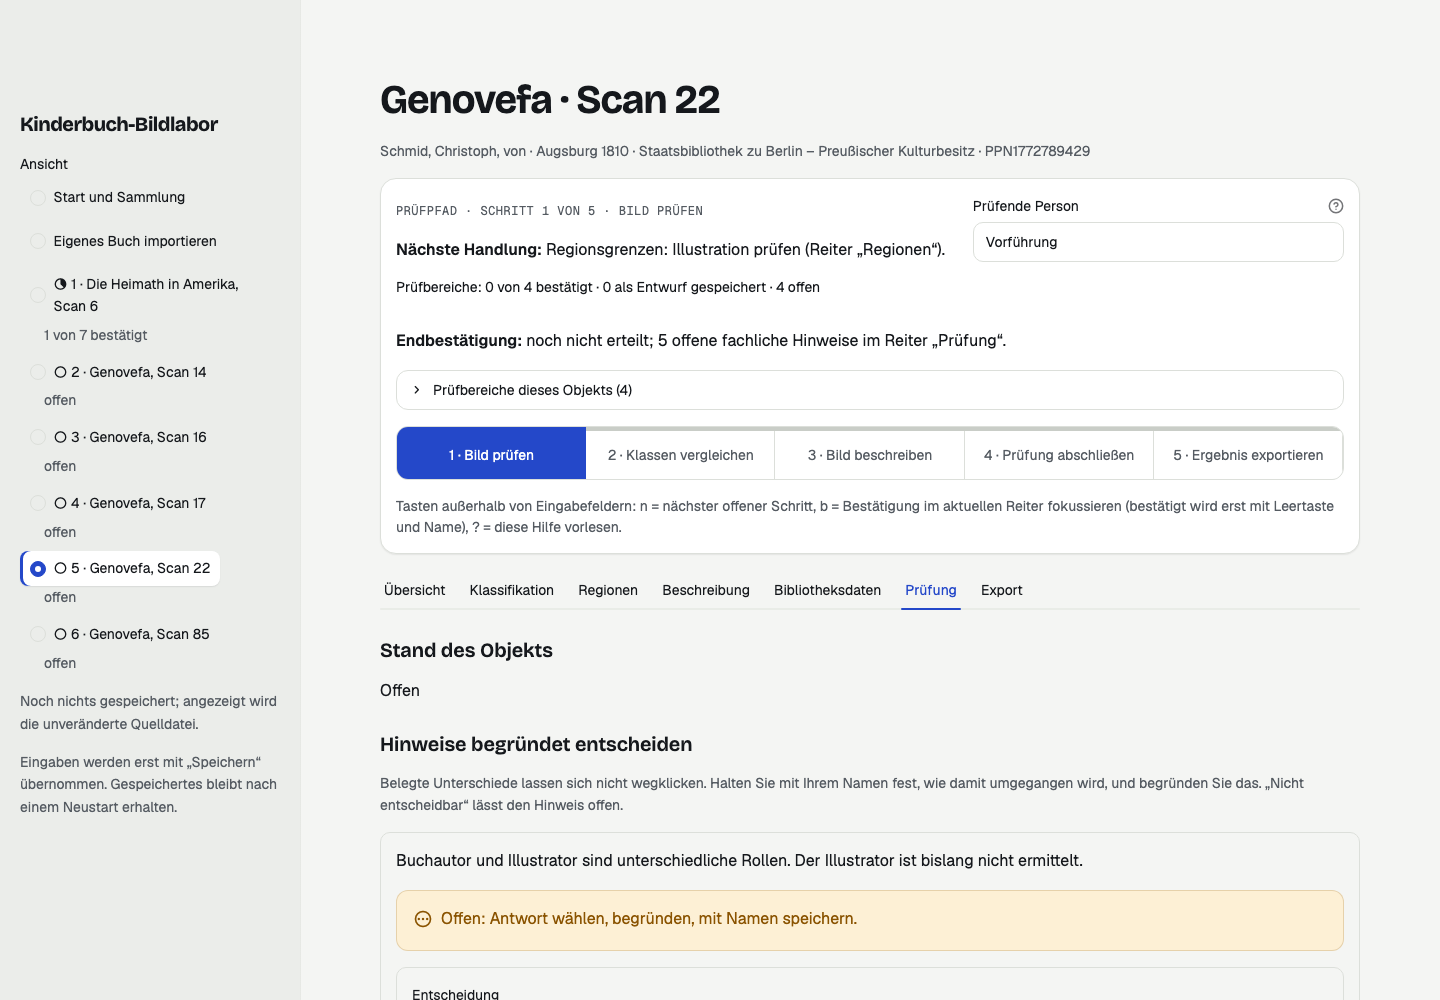
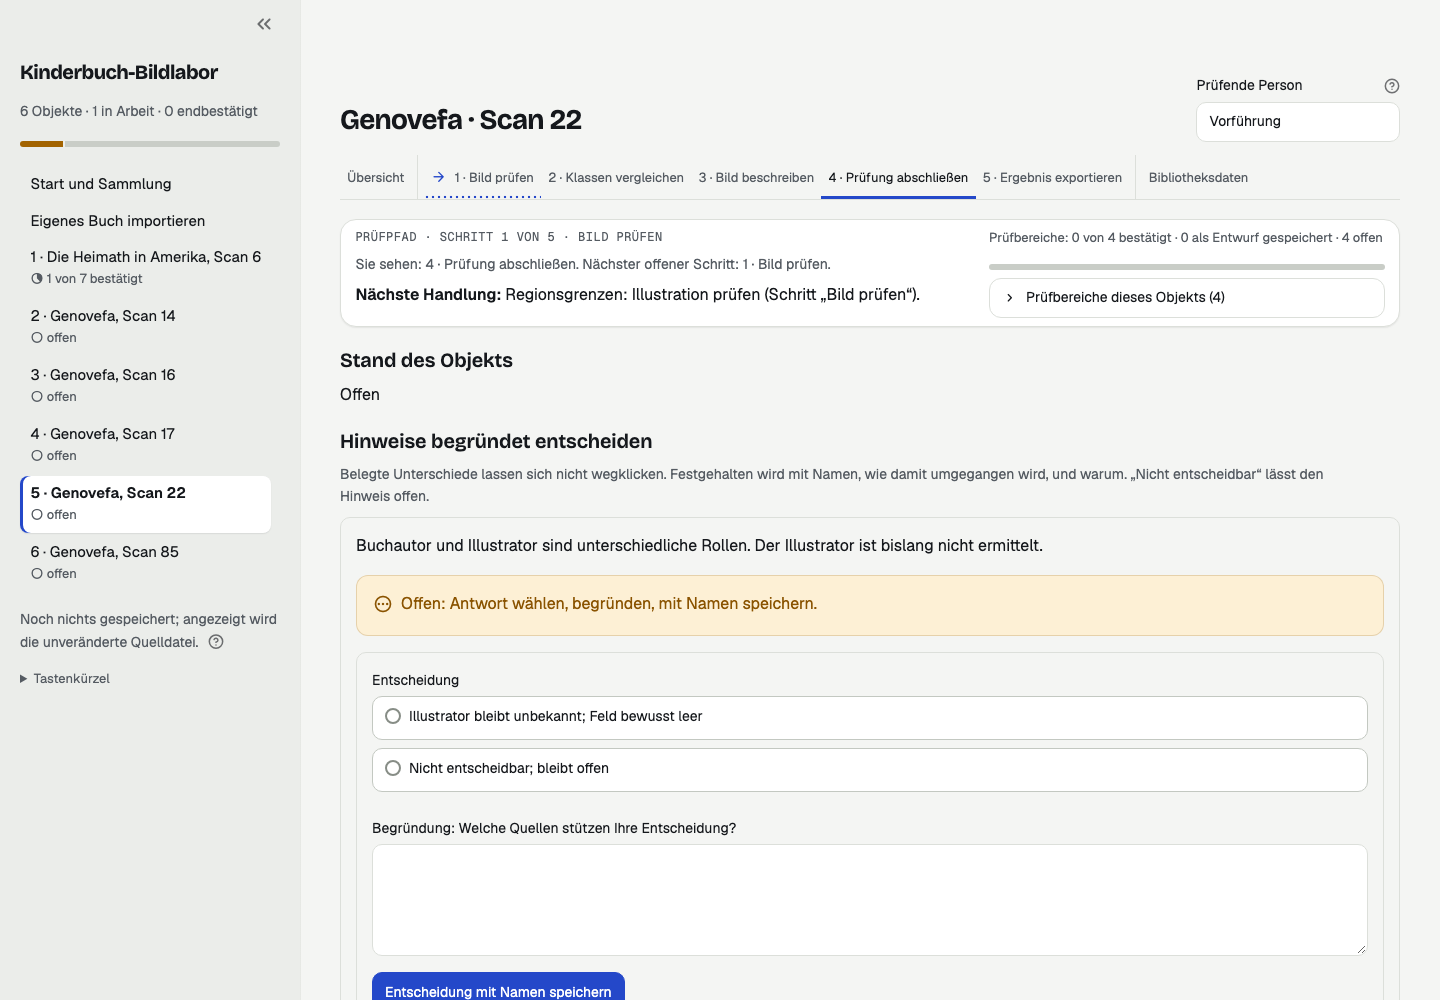
Dokumentation: neue Bildschirmfotos und Gestaltungsleitfaden
Sieben Bildschirmfotos neu erzeugt (neutraler Prüfername „Vorführung“); DESIGN_SYSTEM.md um den Stand der Bedienführung ergänzt.

diff --git a/docs/design/DESIGN_SYSTEM.md b/docs/design/DESIGN_SYSTEM.md
@@ -3,8 +3,8 @@
 Design specification for the Kinderbuch-Bildlabor user interface. The concept is the
 **digitization studio** where these scans are made: neutral studio gray (the standard surround for
 judging color), crisp contemporary type, a vivid cobalt version of *Berliner Blau* reserved for the
-next action, and one signature element: the review path drawn as a **calibration strip**, like the
-color target photographed next to every library scan. The UI language stays German; this document
+next action, and one signature element: the review path as **one numbered workflow bar**, the
+only navigation of an object, with each step's state shown as icon, word and color. The UI language stays German; this document
 is written in English for the implementing agent.
 
 - **Implementation prompts:** [GG_CODER_PROMPTS.md](GG_CODER_PROMPTS.md)
@@ -46,7 +46,7 @@ precise look that is specific to this subject, and it helps the scans look right
 | Display type | Bricolage Grotesque | Contemporary grotesque with ink traps and a hint of print warmth that suits children's books, used only for headings and large values |
 | Text type | Geist | Crisp, neutral, highly legible UI face |
 | Utility type | Geist Mono | Labels and identifiers, like the slip that travels with a scan |
-| Signature | Prüfpfad as calibration strip | The steps really are a sequence; the strip shows each step's state as a patch |
+| Signature | Prüfpfad as the single workflow bar | The steps really are a sequence; one bar shows order, state and where you are |
 
 ## 3. Design principles
 
@@ -73,7 +73,7 @@ precise look that is specific to this subject, and it helps the scans look right
 | Inputs | Beige fields on beige page read as disabled; border contrast about 1.3:1 | White fields with a 3:1+ border (WCAG 1.4.11) |
 | Captions | Muted with `opacity: 0.7` (also fades icons and links) | Fixed muted ink color, 5.8:1 or better |
 | Status colors | Streamlit default yellow/blue/orange; "Offen" in orange, so a fresh object looks alarming | Harmonized semantic palette; untouched = neutral gray, amber only for saved-but-unconfirmed |
-| Prüfpfad steps | Row of round pills, hard to tell done from upcoming | Calibration strip: equal segments, gray/green/cobalt state edge, check icon |
+| Prüfpfad steps | Step buttons plus a separate tab bar with different names and order | One workflow bar: Übersicht, numbered steps, Bibliotheksdaten; the tab bar is hidden |
 | Scan display | Warm paper surround | Neutral gray mat ("Passepartout") behind every scan |
 | Region overlays | Same region is red on overview tabs (colored by number) and blue in the editor (colored by type) | One color per region type everywhere, color-blind-safe (Okabe-Ito) |
 | Object page | Header, Prüfpfad card, two captions and the keyboard hint push the scan below the fold at 1440×900 | Compact Prüfpfad; explanations folded in; work area starts higher |
@@ -101,7 +101,7 @@ All text/background pairs were checked against WCAG 2.2 (ratios in brackets).
 | `on-primary` | Label on primary buttons | `#FFFFFF` (7.4:1) | `#0B1640` (7.9:1) |
 | `primary-tint` | Hover/selected background | `#E9EDFB` | `#1D2547` |
 | `ok` | Done edge and icon | `#146C3A` | `#86D6A2` |
-| `open` | Upcoming edge in the strip | `#C9CDC7` | `#3A4047` |
+| `open` | Open part of progress bars | `#C9CDC7` | `#3A4047` |
 | `mat` | Neutral surround behind scans | `#E2E3E1` | `#0B0C0D` |
 
 Streamlit derives the label color of primary buttons itself and puts white on the light dark-mode
@@ -191,11 +191,11 @@ italic; do not use italics for emphasis (use weight 500–600).
 
 - **Spacing scale (rem):** 0.25 · 0.5 · 0.75 · 1 · 1.5 · 2 · 3 · 4. Use 1.5rem between related
   blocks, 3rem between page sections.
-- **Radius:** inputs and buttons 0.625rem; strip and expanders 0.75rem; scan mat 0.875rem; cards
+- **Radius:** inputs and buttons 0.625rem; expanders 0.75rem; scan mat 0.875rem; cards
   1rem; scan images 0.25rem (paper has nearly square corners).
 - **Elevation:** `shadow-1` (a 1–2px soft shadow) for cards; scans use `shadow-scan`. No other
   shadows. Prefer borders over shadows.
-- **Touch targets:** at least 40px high on desktop, 44px on phones (strip segments are 52px).
+- **Touch targets:** at least 40px high on desktop, 44px on phones (workflow bar items are 44px).
 
 ## 8. Layout and information architecture
 
@@ -203,32 +203,39 @@ italic; do not use italics for emphasis (use weight 500–600).
 
 ```
 ┌ Sidebar (sunken) ─────────┐ ┌ Main (canvas) ─────────────────────────────────────────────┐
-│ Kinderbuch-Bildlabor       │ │ Genovefa · Scan 22                                          │
-│                            │ │ Schmid, Christoph, von · Augsburg 1810 · … · PPN1772789429  │
-│ Start und Sammlung         │ │ ┌ Prüfpfad (white card) ────────────────────────────────────┐ │
-│ Eigenes Buch importieren   │ │ │ PRÜFPFAD · SCHRITT 2 VON 5 · …     Prüfende Person [____]  │ │
-│ 1 · Heimath, Scan 6        │ │ │ Nächste Handlung: …                                        │ │
-│   offen                    │ │ │ ▬▬▬▬▬▬░░░░░░░░ 1 von 4 bestätigt · 0 Entwurf · 3 offen    │ │
-│ 2 · Genovefa, Scan 14      │ │ │ ┌──────────┬──────────┬──────────┬──────────┬──────────┐  │ │
-│   1 von 4 bestätigt        │ │ │ │▀▀green▀▀▀│██cobalt██│▀▀gray▀▀▀▀│▀▀gray▀▀▀▀│▀▀gray▀▀▀▀│  │ │
-│▌5 · Genovefa, Scan 22      │ │ │ │✓ 1 Bild  │2 Klassen │3 Beschr. │4 Abschl. │5 Export  │  │ │
-│   1 von 4 bestätigt        │ │ │ └──────────┴──────────┴──────────┴──────────┴──────────┘  │ │
-│                            │ │ └────────────────────────────────────────────────────────────┘ │
-│ Eingaben werden erst mit … │ │ Übersicht | Klassifikation | Regionen | … | Prüfung | Export │
+│ Kinderbuch-Bildlabor       │ │ SAMMLUNG · GENOVEFA · AUGSBURG 1810                         │
+│ 6 Objekte · 1 in Arbeit ·… │ │ Genovefa · Scan 22                    Prüfende Person [____] │
+│ ▬▬░░░░░░░░░░░░░░░░░░░░░░  │ │ Schmid, Christoph, von · Augsburg 1810 · … · PPN1772789429  │
+│ Start und Sammlung         │ │ Übersicht │ → 1 · Bild prüfen  2 · Klassen …  5 · Export │ Bibl.│ (sticky)
+│ Eigenes Buch importieren   │ │ ────────── ═══════════ (underline = shown view) ──────────── │
+│ ◔ 1 · Heimath, Scan 6      │ │ ┌ Status card ──────────────────────────────────────────────┐ │
+│     1 von 7 bestätigt      │ │ │ PRÜFPFAD · SCHRITT 1 VON 5 …   Prüfbereiche: 0 von 4 …   │ │
+│▌○ 5 · Genovefa, Scan 22    │ │ │ Nächste Handlung: …            ▬▬▬▬▬▬▬▬▬▬▬▬▬▬▬▬▬▬▬▬▬       │ │
+│     offen                  │ │ │ Endbestätigung: …              ▸ Prüfbereiche (4)         │ │
+│ … keyboard help (objects)  │ │ └────────────────────────────────────────────────────────────┘ │
 └────────────────────────────┘ │ ┌ Scan on gray mat (sticky) ┐ ┌ Work panel ───────────────┐  │
                                │ │        [ scan ]            │ │ question · form · sign-off│  │
                                │ └────────────────────────────┘ └───────────────────────────┘  │
                                └─────────────────────────────────────────────────────────────┘
 ```
 
-- **Sidebar:** wordmark in Bricolage; navigation as list rows; the active row sits on `surface`
-  with a 3px inset cobalt edge; under each object a short state line (Phase 2).
-- **Object header:** H1 "Genovefa · Scan 22" in Bricolage, metadata line in `ink-muted`.
-- **Prüfpfad:** one white card. The two captions that currently sit below it (step explanation
-  and keyboard hint) move inside the card, into its footer or the "Prüfbereiche dieses Objekts"
-  expander. Goal at 1440×900: the tab bar and the top of the scan are visible without scrolling.
-- **Work area:** two columns, scan left (2) and controls right (3), as today (`ui.SPLIT`). The scan
-  column stays sticky on wide screens.
+- **Sidebar:** wordmark in Bricolage; collection progress line with a segmented bar; navigation as
+  full-width list rows (visual radio circle hidden, input kept for keyboard and screen readers);
+  the active row sits on `surface` with a 3px inset cobalt edge; under each object a state line.
+  Focus ring is drawn inside the row so the sidebar edge never clips it. On object pages the
+  keyboard help sits at the bottom of the sidebar.
+- **Object header** (`object-head`): eyebrow, H1 "Genovefa · Scan 22" (no break inside
+  "Scan 22") and metadata line on the left, "Prüfende Person" on the right. Below 1100px the
+  name field moves under the title.
+- **Workflow bar** (`guide-steps`): the only navigation of an object, sticky under the Streamlit
+  header. See §9. `st.tabs` still decides which view renders (keys, labels and session values are
+  unchanged), but its tab bar is hidden.
+- **Status card** (`review-guide`): eyebrow, next action and final-approval line on the left,
+  progress and the "Prüfbereiche dieses Objekts" expander on the right; stacks below 1100px.
+  Result at 1440×900: the illustration starts at about 420px instead of about 690px.
+- **Work area:** two equal columns, scan left and controls right (`ui.SPLIT = [1, 1]`). Scans are
+  capped to the window height so a whole page stays visible. The scan column stays sticky above
+  1100px; below that, scan and controls stack.
 
 ### 8.2 Start page order
 
@@ -249,7 +256,7 @@ Keep the demo narrative but bring the collection closer to the top:
 
 | Component | Spec |
 |---|---|
-| **Calibration strip** (signature; Prüfpfad step buttons in `st.container(key="guide-steps")`) | One continuous strip, 1px `border`, radius 0.75rem, segments of equal width (min 8.5rem, wraps on phones), 52px high, no gaps. Each segment has a 4px top edge: `open` gray for upcoming, `ok` green plus check icon for done, and the current step is a solid cobalt segment with `on-primary` label. Hover on other segments: `primary-tint`. No bounce animation inside the strip. Keep keys and `help=` texts. |
+| **Workflow bar** (signature; `workflow.navigation`, `st.container(key="guide-steps")`) | One row: Übersicht, the numbered steps in review order, then reference views (Bibliotheksdaten), separated by 1px dividers. Text buttons 44px high, `ink-muted` label. Shown view: `ink` label and a 3px cobalt underline (`workflow.viewed_marker`, also sets `aria-current="page"`). Next open step: cobalt label with arrow icon (`type="primary"`); done: green check icon. Scrolls horizontally on narrow screens; sticky at the top. Keys `guide-<tab>` and `help=` texts unchanged. |
 | **Primary button** | Cobalt fill, `on-primary` label, radius 0.625rem, optional leading arrow icon. One per area. The two-bounce "next step" nudge stays on "Leitbeispiel öffnen" and "Weiter"; off under reduced motion. |
 | **Secondary button** | White, 1px `border-strong`, ink label. |
 | **Tertiary / link** | "Scan in der Originalansicht öffnen": link style with external-link icon. |
@@ -258,12 +265,13 @@ Keep the demo narrative but bring the collection closer to the top:
 | **Sign-off panel** (`ui.confirm_controls`, key `…-review-box`) | Reads as a signature block: `surface`, 1px `border-strong`, radius 0.75rem; statement checkbox; primary confirm button; lock icon + reason in `ink-muted` when disabled. |
 | **Decision options** (radios with keys ending `-outcome`) | Each option a full-width row: 44px min height, 1px border, radius 0.625rem; hover border `primary`; selected = `primary` border + `primary-tint`. The sidebar radio is not affected. |
 | **Comparison cards** ("Colibri manuell" vs "Colibri automatisch") | Two equal `st.metric` cards; value in Bricolage; the automatic card gets a violet "maschinell" badge. |
-| **Scan stage** | `mat` background, 0.875rem padding and radius; image radius 0.25rem with `shadow-scan`; caption below in `ink-muted`. |
+| **Scan stage** | `mat` background, 0.875rem padding and radius; image radius 0.25rem with `shadow-scan`; caption below in `ink-muted`; height capped to the window; fullscreen button always visible. |
+| **Region editor** (`region_canvas.js`, shadow DOM, styled by its own `STYLE` from `--bl-*` tokens) | Segmented mode switch (`aria-pressed`), zoom group (−, +, Gesamtansicht), collapsible "Bildanpassung" and "Bedienung". Frames: white halo, type color, label tag 12 screen px above the frame with white or near-black text (whichever reaches 4.5:1). Unsaved frames dashed and tagged "geändert"/"neu". Live status line (`aria-live`) with selection coordinates and unsaved count. |
 | **Alerts** | Theme colors from 5.2 plus a 1px border at 20% of the text color, radius 0.75rem. Avoid stacking more than one alert per area. |
-| **Tabs** | Weight 500, active 600 with cobalt underline. Optional: sticky tab bar (adjust the sticky scan offset). |
+| **Tabs** | The object tab bar is hidden; the workflow bar replaces it. |
 | **Tables** | Header on `sunken`, tabular numbers, 1px `border`. |
 | **Keyboard hint** (`review_keys.py`) | Inherit the theme font; 0.875rem; color `var(--bl-ink-muted)`. |
-| **Focus** | 3px `primary` outline, 2px offset (inside the strip: −3px), on every interactive element. |
+| **Focus** | 3px `primary` outline, 2px offset (inside the workflow bar and sidebar rows: −3px), on every interactive element. |
 
 ## 10. Motion
 
@@ -275,8 +283,8 @@ hover color changes. Everything is disabled under `prefers-reduced-motion: reduc
 - [ ] Text contrast ≥ 4.5:1, large text ≥ 3:1, input borders and focus ring ≥ 3:1 (values in §5
   already pass in both modes).
 - [ ] Primary button labels use `on-primary` in both modes.
-- [ ] No state conveyed by color alone (icon + word always present; the strip's done segments carry
-  a check icon).
+- [ ] No state conveyed by color alone (icon + word always present; done steps carry a check icon,
+  the next step an arrow).
 - [ ] `lang="de"` set on the document.
 - [ ] All actions reachable by keyboard; visible focus ring everywhere; keyboard hint readable.
 - [ ] Usable at 200% browser zoom and at 390px width without horizontal scrolling.
@@ -290,10 +298,15 @@ hover color changes. Everything is disabled under `prefers-reduced-motion: reduc
   `headingFontSizes`, `greenBackgroundColor`, …). The implementation is
   [`.streamlit/config.toml`](../../.streamlit/config.toml).
 - **Tokens for custom CSS** come from `theme.inject()` ([`theme.py`](../../src/kinderbuch_bildlabor/theme.py)),
-  which writes `--bl-*` CSS variables for the active mode using `st.context.theme.type` and sets
-  `lang="de"`. `workflow.css` uses only these variables, never raw hex values.
+  which writes the light `--bl-*` variables on `:root` and the dark ones under
+  `:root[data-bl-theme="dark"]`, and sets `lang="de"`. `THEME_SCRIPT` sets `data-bl-theme` in the
+  browser from the background Streamlit actually renders and updates it on every theme change.
+  A server-side choice (`st.context.theme.type`) lagged behind live theme switches until the next
+  run and produced 2.2–2.4:1 primary button labels. `workflow.css` uses only these variables, never raw hex values.
 - **Selectors:** prefer the `.st-key-<key>` classes Streamlit adds to keyed containers. The design
-  needs three new hooks: `guide-steps` (strip), `guide-eyebrow`, `hero-eyebrow`. Use `data-testid`
+  hooks: `guide-steps` (workflow bar), `guide-eyebrow`, `guide-final`, `guide-keys`, `object-head`,
+  `review-guide`, `collection-progress`, `hero-eyebrow`. Streamlit replaces every character outside
+  `[A-Za-z0-9_-]` in key classes with `-` (`guide-übersicht` becomes `st-key-guide--bersicht`). Use `data-testid`
   selectors sparingly, never `:nth-child`, and never `:first-child` on generic elements (in the
   prototype a `:first-child` caption rule leaked onto unrelated captions).
 - **Do not change** widget keys, tab labels, session-state keys, German copy, or the element type of
@@ -312,7 +325,7 @@ hover color changes. Everything is disabled under `prefers-reduced-motion: reduc
 
 ## 13. Implementation status
 
-All five phases are implemented. The reference files that were used to apply Phase 1 have been
+All six phases are implemented. The reference files that were used to apply Phase 1 have been
 removed; the live files listed at the top are the source of truth.
 
 | Phase | Content | Status |
@@ -322,6 +335,8 @@ removed; the live files listed at the top are the source of truth.
 | 3 | Status badges and colors, "maschinell" marker, decision option rows, sign-off panel, scan mat | Implemented |
 | 4 | Region overlay colors by type (Okabe-Ito) in overlays and canvas editor | Implemented |
 | 5 | Start page order, import next to the lead action, card badges, side-by-side tools | Implemented |
+| 6 | UX pass: single workflow bar, compact header with reviewer field, sidebar rows and progress, larger scans, region editor toolbar and feedback, theme chosen in the browser, AA contrast audit in both modes | Implemented |
+| 7 | Region canvas fitted to the regions (1280×720), compact header on short windows, jump link to the reviewer name (`ui.name_link`), state icon moved from the sidebar radio label into the caption (fixes a return to Start after the first save), help text as tooltips, toasts at the bottom | Implemented |
 
 Known gaps against this document:
 
